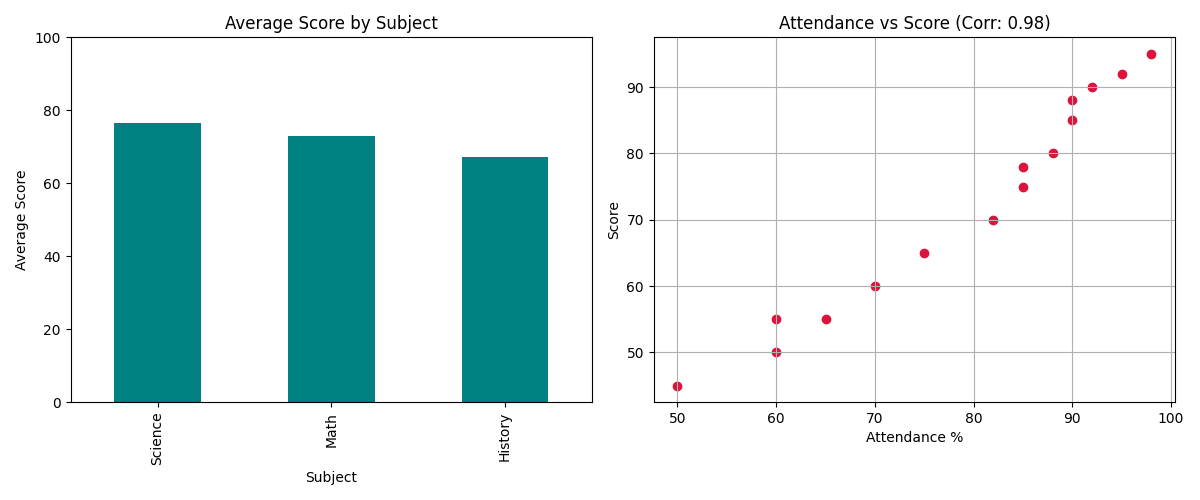
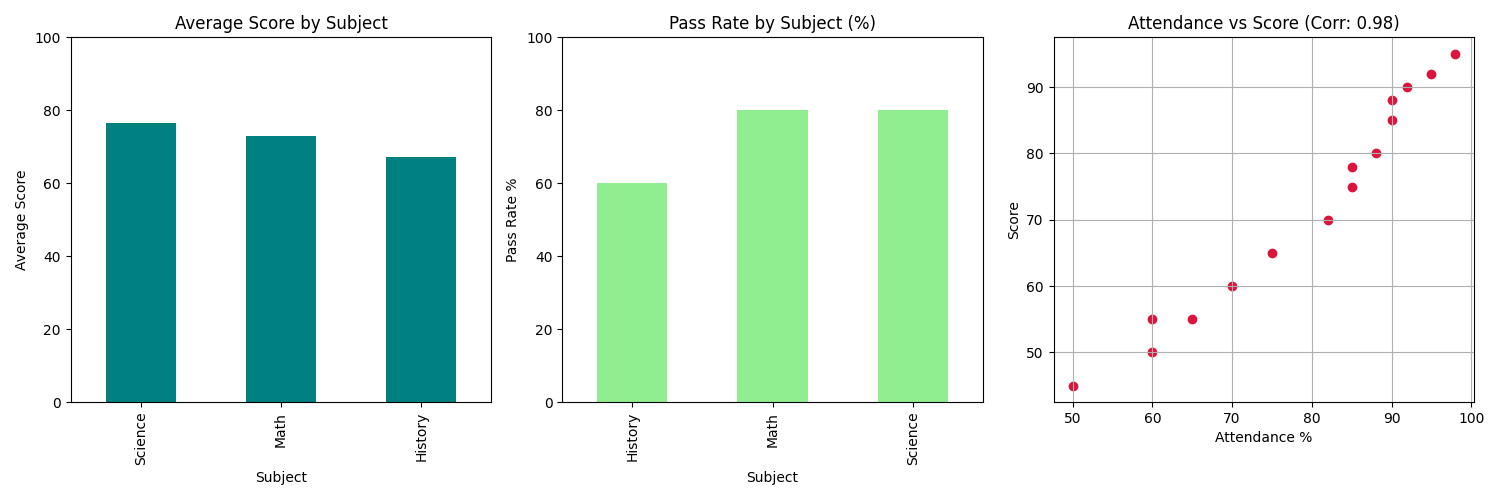
Add Pass Rate Analysis feature

diff --git a/analysis.py b/analysis.py
@@ -20,29 +20,42 @@ def analyze_performance(file_path):
     print("\n--- Average Score by Subject ---")
     print(avg_score_subject)
 
-    # 2. Top Performing Student (Overall Average)
+    # 2. Pass Rate by Subject (Score >= 60)
+    pass_rate_subject = df[df['Score'] >= 60].groupby('Subject')['Score'].count() / df.groupby('Subject')['Score'].count() * 100
+    pass_rate_subject = pass_rate_subject.fillna(0) # Handle cases with 0 pass rate
+    print("\n--- Pass Rate by Subject (%) ---")
+    print(pass_rate_subject)
+
+    # 3. Top Performing Student (Overall Average)
     avg_score_student = df.groupby('Name')['Score'].mean().sort_values(ascending=False)
     top_student = avg_score_student.head(1)
     print("\n--- Top Performing Student ---")
     print(top_student)
 
-    # 3. Correlation between Attendance and Score
+    # 4. Correlation between Attendance and Score
     correlation = df['Attendance_Percentage'].corr(df['Score'])
     print(f"\n--- Correlation (Attendance vs Score) ---")
     print(f"Correlation Coefficient: {correlation:.2f}")
 
     # Visualization
-    plt.figure(figsize=(12, 5))
+    plt.figure(figsize=(15, 5))
 
     # Bar Chart: Average Score by Subject
-    plt.subplot(1, 2, 1)
+    plt.subplot(1, 3, 1)
     avg_score_subject.plot(kind='bar', color='teal')
     plt.title('Average Score by Subject')
     plt.ylabel('Average Score')
     plt.ylim(0, 100)
 
+    # Bar Chart: Pass Rate by Subject
+    plt.subplot(1, 3, 2)
+    pass_rate_subject.plot(kind='bar', color='lightgreen')
+    plt.title('Pass Rate by Subject (%)')
+    plt.ylabel('Pass Rate %')
+    plt.ylim(0, 100)
+
     # Scatter Plot: Attendance vs Score
-    plt.subplot(1, 2, 2)
+    plt.subplot(1, 3, 3)
     plt.scatter(df['Attendance_Percentage'], df['Score'], color='crimson')
     plt.title(f'Attendance vs Score (Corr: {correlation:.2f})')
     plt.xlabel('Attendance %')
